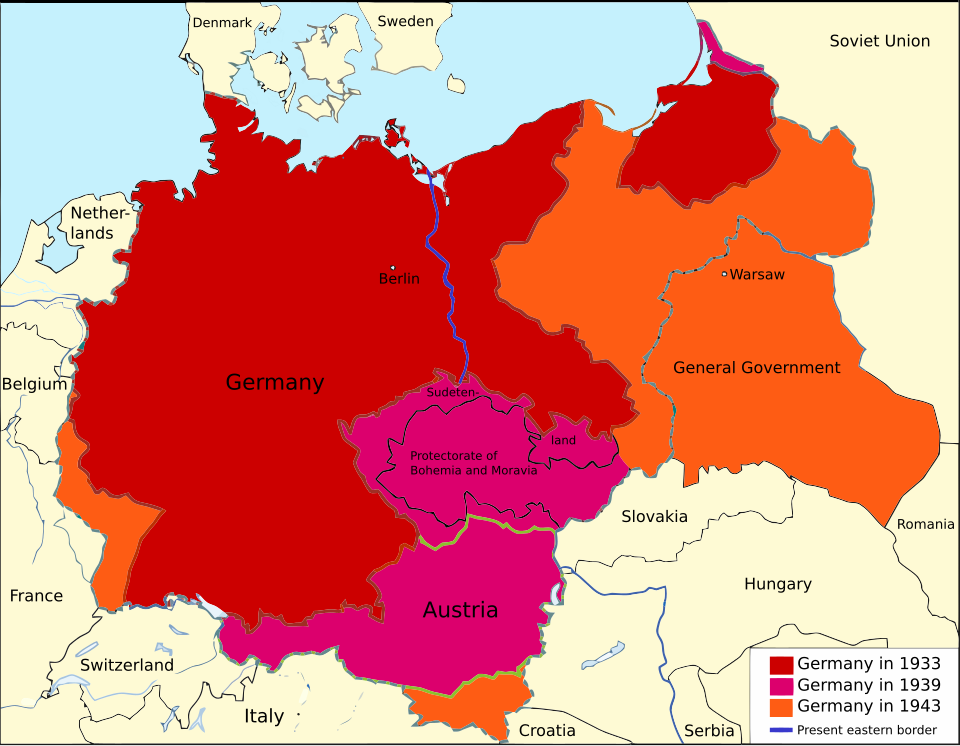
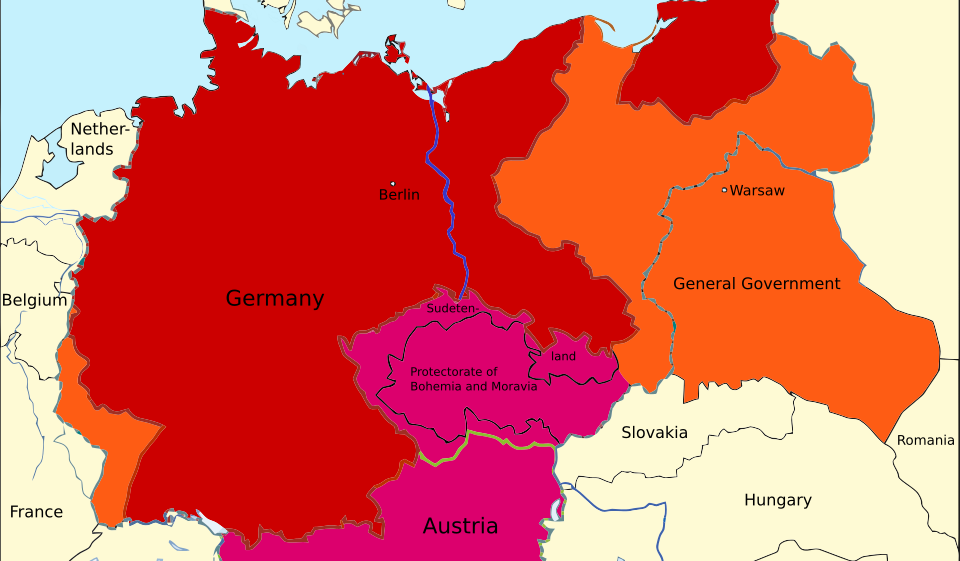
Implement fullscreen functionality for interactive map with new styles and button

diff --git a/scripts/timeline-map.js b/scripts/timeline-map.js
@@ -14,6 +14,7 @@ class EuropeTimelineMap {
     this.container = document.getElementById(containerId);
     this.data = dataArray;
     this.completedStations = new Set(this.user.completedStations || []);
+    this.completedSuperStations = new Set(this.user.completedSuperStations || []);
     this.currentStation = parseInt(localStorage.getItem('currentStation') || '1');
     
     // Use user system for gamification
@@ -225,8 +226,33 @@ class EuropeTimelineMap {
     stations.setAttribute('class', 'stations-group');
     svg.appendChild(stations);
 
-    // Add SVG to container
-    this.container.appendChild(svg);
+    // Create wrapper for SVG with fullscreen button
+    const mapWrapper = document.createElement('div');
+    mapWrapper.className = 'map-svg-wrapper';
+    mapWrapper.id = 'mapSvgWrapper';
+    
+    // Add SVG to wrapper
+    mapWrapper.appendChild(svg);
+    
+    // Create fullscreen button on the map
+    const fullscreenBtn = document.createElement('button');
+    fullscreenBtn.className = 'map-fullscreen-btn';
+    fullscreenBtn.innerHTML = '⛶';
+    fullscreenBtn.title = 'מצב מסך מלא';
+    fullscreenBtn.setAttribute('aria-label', 'מצב מסך מלא');
+    mapWrapper.appendChild(fullscreenBtn);
+    
+    // Remove the old fullscreen button from top controls if it exists
+    const fullscreenBtnFromTop = document.getElementById('fullscreenBtn');
+    if (fullscreenBtnFromTop) {
+      fullscreenBtnFromTop.remove();
+    }
+    
+    // Add wrapper to container
+    this.container.appendChild(mapWrapper);
+    
+    // Store reference to SVG for fullscreen
+    this.svgElement = svg;
 
     // Add modal for station info and quiz
     const modal = document.createElement('div');
@@ -437,6 +463,11 @@ class EuropeTimelineMap {
     if (!stationsGroup) {
       stationsGroup = document.createElementNS('http://www.w3.org/2000/svg', 'g');
       stationsGroup.setAttribute('id', 'super-stations');
+      stationsGroup.setAttribute('pointer-events', 'all');
+      svg.appendChild(stationsGroup);
+    } else {
+      // Ensure super stations are always on top by re-appending
+      svg.removeChild(stationsGroup);
       svg.appendChild(stationsGroup);
     }
 
@@ -455,6 +486,7 @@ class EuropeTimelineMap {
       const superGroup = document.createElementNS('http://www.w3.org/2000/svg', 'g');
       superGroup.setAttribute('class', 'super-station ' + (isUnlocked ? 'unlocked' : 'locked'));
       superGroup.setAttribute('data-super-id', superStation.id);
+      superGroup.setAttribute('pointer-events', 'all');
 
       // Outer glow
       const glow = document.createElementNS('http://www.w3.org/2000/svg', 'circle');
@@ -463,6 +495,7 @@ class EuropeTimelineMap {
       glow.setAttribute('r', '3');
       glow.setAttribute('fill', isUnlocked ? 'rgba(255, 215, 0, 0.3)' : 'rgba(200, 200, 200, 0.2)');
       glow.setAttribute('class', 'super-glow');
+      glow.setAttribute('pointer-events', 'none');
       superGroup.appendChild(glow);
 
       // Main star shape
@@ -471,13 +504,16 @@ class EuropeTimelineMap {
       star.setAttribute('y', proj.y + 0.8);
       star.setAttribute('text-anchor', 'middle');
       star.setAttribute('font-size', '2.5');
-      star.setAttribute('pointer-events', 'auto');
+      star.setAttribute('pointer-events', 'all');
       star.textContent = superStation.icon;
       superGroup.appendChild(star);
 
       if (isUnlocked) {
         superGroup.style.cursor = 'pointer';
-        superGroup.addEventListener('click', () => this.showSuperStationInfo(superStation));
+        superGroup.addEventListener('click', (e) => {
+          e.stopPropagation();
+          this.showSuperStationInfo(superStation);
+        });
         
         // Add animation
         superGroup.style.animation = 'glow-pulse 2s infinite';
@@ -830,8 +866,8 @@ class EuropeTimelineMap {
       achievementsBtn.addEventListener('click', () => this.showAchievements());
     }
 
-    // Fullscreen button
-    const fullscreenBtn = document.getElementById('fullscreenBtn');
+    // Fullscreen button (now inside map wrapper)
+    const fullscreenBtn = document.querySelector('.map-fullscreen-btn');
     if (fullscreenBtn) {
       fullscreenBtn.addEventListener('click', () => this.toggleFullscreen());
     }
@@ -845,21 +881,38 @@ class EuropeTimelineMap {
   }
 
   toggleFullscreen() {
-    const mapContainer = document.getElementById('mapContainer');
-    if (!mapContainer) return;
+    const mapWrapper = document.getElementById('mapSvgWrapper');
+    if (!mapWrapper) return;
 
-    if (!document.fullscreenElement) {
-      mapContainer.requestFullscreen ? mapContainer.requestFullscreen() :
-        mapContainer.webkitRequestFullscreen ? mapContainer.webkitRequestFullscreen() :
-        mapContainer.mozRequestFullScreen ? mapContainer.mozRequestFullScreen() :
-        mapContainer.msRequestFullscreen ? mapContainer.msRequestFullscreen() : null;
+    if (!document.fullscreenElement && !document.webkitFullscreenElement && 
+        !document.mozFullScreenElement && !document.msFullscreenElement) {
+      // Enter fullscreen
+      if (mapWrapper.requestFullscreen) {
+        mapWrapper.requestFullscreen().catch(err => {
+          console.error('Error attempting to enable fullscreen:', err);
+        });
+      } else if (mapWrapper.webkitRequestFullscreen) {
+        mapWrapper.webkitRequestFullscreen();
+      } else if (mapWrapper.mozRequestFullScreen) {
+        mapWrapper.mozRequestFullScreen();
+      } else if (mapWrapper.msRequestFullscreen) {
+        mapWrapper.msRequestFullscreen();
+      }
       
       soundEffects.playClick();
     } else {
-      document.exitFullscreen ? document.exitFullscreen() :
-        document.webkitExitFullscreen ? document.webkitExitFullscreen() :
-        document.mozCancelFullScreen ? document.mozCancelFullScreen() :
-        document.msExitFullscreen ? document.msExitFullscreen() : null;
+      // Exit fullscreen
+      if (document.exitFullscreen) {
+        document.exitFullscreen().catch(err => {
+          console.error('Error attempting to exit fullscreen:', err);
+        });
+      } else if (document.webkitExitFullscreen) {
+        document.webkitExitFullscreen();
+      } else if (document.mozCancelFullScreen) {
+        document.mozCancelFullScreen();
+      } else if (document.msExitFullscreen) {
+        document.msExitFullscreen();
+      }
       
       soundEffects.playClick();
     }

diff --git a/styles/style.css b/styles/style.css
@@ -1248,6 +1248,94 @@ table td a:hover {
   padding: 20px;
 }
 
+/* Map SVG Wrapper */
+.map-svg-wrapper {
+  position: relative;
+  width: 100%;
+  max-width: 1400px;
+  margin: 0 auto;
+  background: white;
+  border-radius: 8px;
+  padding: 20px;
+  box-shadow: 0 4px 12px rgba(74, 157, 111, 0.1);
+}
+
+/* Fullscreen button on map */
+.map-fullscreen-btn {
+  position: absolute;
+  bottom: 20px;
+  right: 20px;
+  background: linear-gradient(135deg, #667eea 0%, #764ba2 100%);
+  color: white;
+  border: none;
+  width: 48px;
+  height: 48px;
+  border-radius: 50%;
+  cursor: pointer;
+  font-size: 24px;
+  transition: all 0.3s ease;
+  box-shadow: 0 4px 12px rgba(102, 126, 234, 0.4);
+  display: flex;
+  align-items: center;
+  justify-content: center;
+  z-index: 10;
+}
+
+.map-fullscreen-btn:hover {
+  transform: scale(1.1);
+  box-shadow: 0 6px 16px rgba(102, 126, 234, 0.6);
+}
+
+.map-fullscreen-btn:active {
+  transform: scale(0.95);
+}
+
+/* Fullscreen map wrapper styles */
+.map-svg-wrapper:fullscreen,
+.map-svg-wrapper:-webkit-full-screen,
+.map-svg-wrapper:-moz-full-screen,
+.map-svg-wrapper:-ms-fullscreen {
+  background: white;
+  padding: 0;
+  margin: 0;
+  overflow: hidden;
+  width: 100vw;
+  height: 100vh;
+  display: flex;
+  align-items: center;
+  justify-content: center;
+  box-sizing: border-box;
+  position: relative;
+}
+
+.map-svg-wrapper:fullscreen .timeline-map,
+.map-svg-wrapper:-webkit-full-screen .timeline-map,
+.map-svg-wrapper:-moz-full-screen .timeline-map,
+.map-svg-wrapper:-ms-fullscreen .timeline-map {
+  width: auto;
+  height: auto;
+  max-height: 90vh;
+  max-width: 95vw;
+  object-fit: contain;
+  margin: auto;
+  border: none;
+  position: absolute;
+  top: 50%;
+  left: 50%;
+  transform: translate(-50%, -50%);
+}
+
+.map-svg-wrapper:fullscreen .map-fullscreen-btn,
+.map-svg-wrapper:-webkit-full-screen .map-fullscreen-btn,
+.map-svg-wrapper:-moz-full-screen .map-fullscreen-btn,
+.map-svg-wrapper:-ms-fullscreen .map-fullscreen-btn {
+  bottom: 30px;
+  right: 30px;
+  width: 56px;
+  height: 56px;
+  font-size: 28px;
+}
+
 .map-legend {
   background: linear-gradient(135deg, #f0f8f4 0%, #e8f5ef 100%);
   border: 1px solid var(--border-color);
@@ -1304,7 +1392,7 @@ table td a:hover {
   width: 100%;
   height: auto;
   max-width: 100%;
-  min-height: 600px;
+  max-height: 700px;
   border: 2px solid var(--border-color);
   border-radius: 8px;
   background: linear-gradient(135deg, #fafbfa 0%, #f5f8f6 100%);

diff --git a/timeline-map.html b/timeline-map.html
@@ -47,7 +47,7 @@
 
     <section class="container">
       <div class="map-controls" style="text-align: center; margin: 20px 0; display: flex; justify-content: center; gap: 15px; flex-wrap: wrap;">
-        <button id="fullscreenBtn" class="control-button" style="background: linear-gradient(135deg, #667eea 0%, #764ba2 100%); color: white; border: none; padding: 10px 20px; border-radius: 6px; cursor: pointer; font-weight: 600; font-size: 14px; transition: all 0.3s ease;" title="מצב מלא">⛶ מלא מסך</button>
+        <button id="fullscreenBtn" class="control-button" style="display: none; background: linear-gradient(135deg, #667eea 0%, #764ba2 100%); color: white; border: none; padding: 10px 20px; border-radius: 6px; cursor: pointer; font-weight: 600; font-size: 14px; transition: all 0.3s ease;" title="מצב מלא">⛶ מלא מסך</button>
         <button id="soundToggle" class="control-button" style="background: linear-gradient(135deg, #4ECDC4 0%, #44A08D 100%); color: white; border: none; padding: 10px 20px; border-radius: 6px; cursor: pointer; font-weight: 600; font-size: 14px; transition: all 0.3s ease;" title="הפעל/כבה קול">🔊 קול</button>
         <button class="reset-button" style="display: none;" id="resetBtn">אפס התקדמות</button>
       </div>
